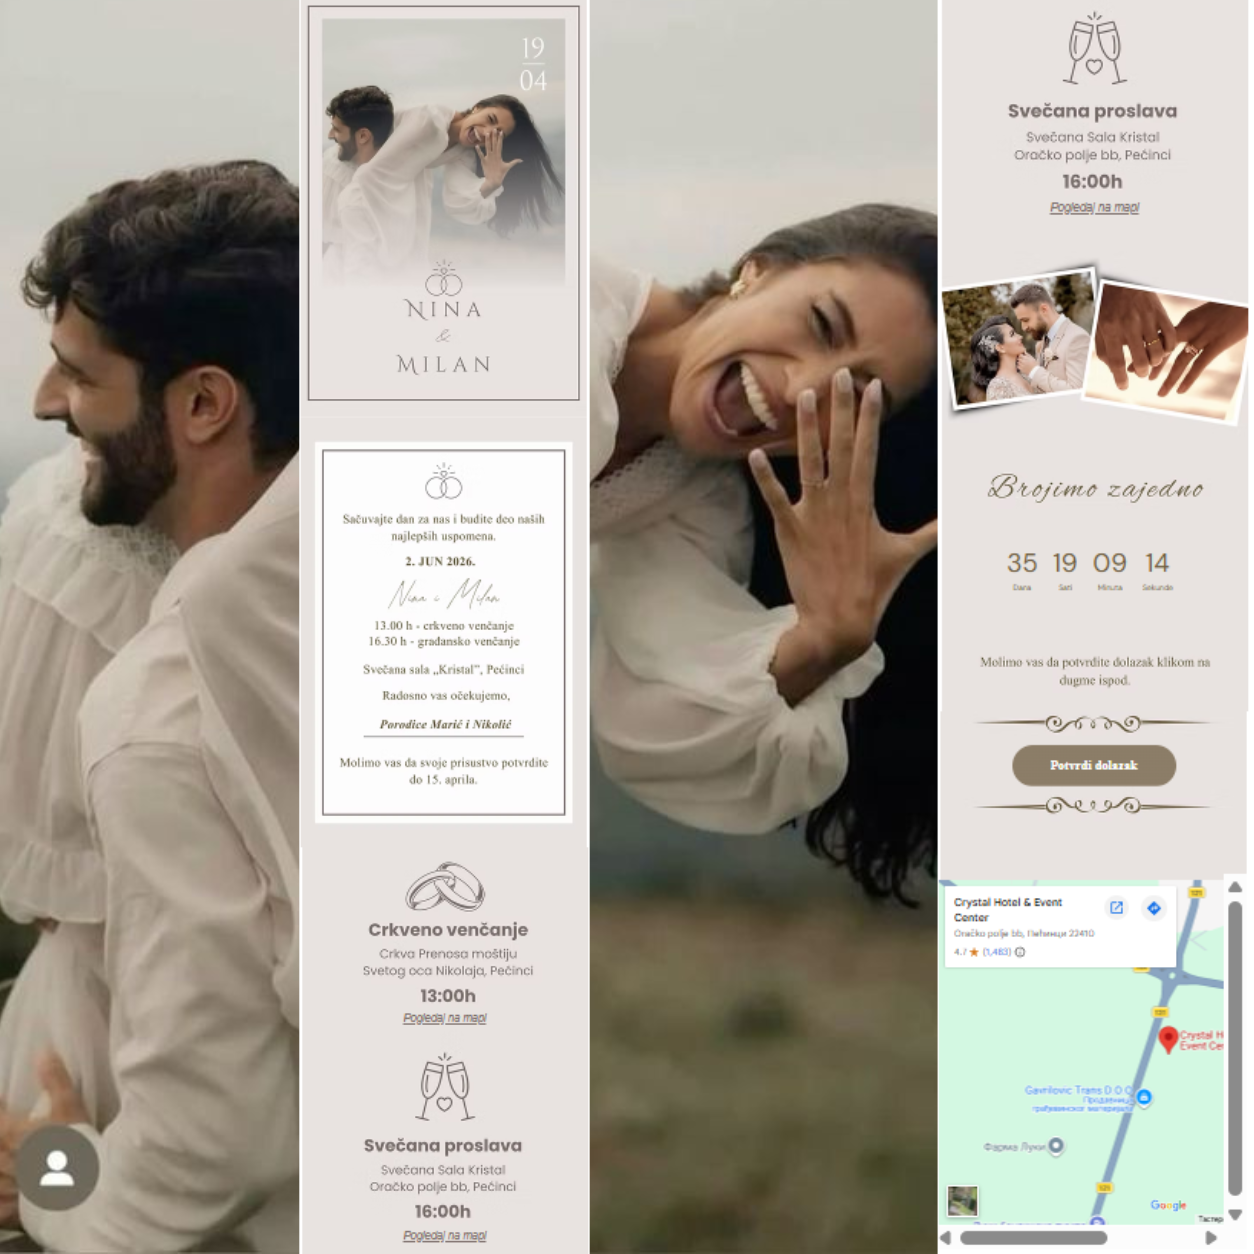
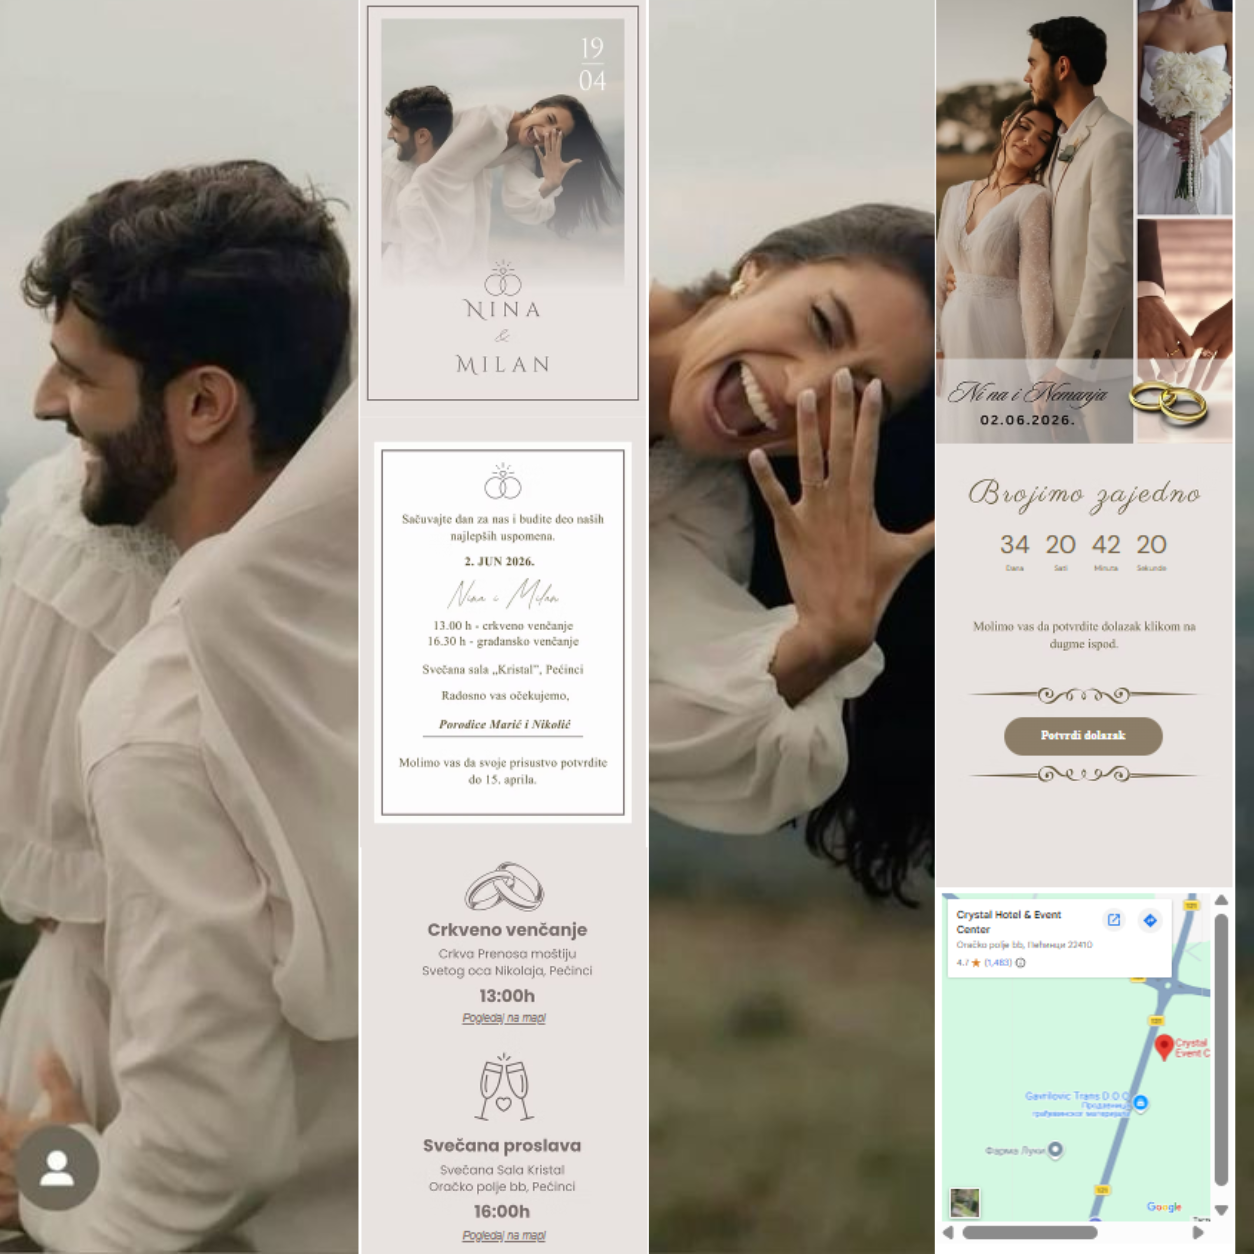
Added photo preview for all models

Changed region(s): [[0.2177, 0.0, 0.5287, 1.0], [0.7464, 0.0, 1.0, 1.0], [0.3732, 0.2799, 0.4043, 0.311]]

diff --git a/modeli.html b/modeli.html
@@ -93,35 +93,7 @@
         </div>
       </div>
       <div class="model">
-        <img src="./images/Andrea.png" alt="" />
-        <div class="model-content">
-          <h3>Rose Symphony</h3>
-          <a href="http://proslave.net/primer1" class="model-btn"
-            >Pogledaj primer</a
-          >
-        </div>
-      </div>
-
-      <div class="model">
-        <img src="./images/Nina.png" alt="" />
-        <div class="model-content">
-          <h3>Petals Of Joy</h3>
-          <a href="http://proslave.net/primer1" class="model-btn"
-            >Pogledaj primer</a
-          >
-        </div>
-      </div>
-      <div class="model">
-        <img src="./images/Slavka.png" alt="" />
-        <div class="model-content">
-          <h3>Forever Bloom</h3>
-          <a href="http://proslave.net/primer1" class="model-btn"
-            >Pogledaj primer</a
-          >
-        </div>
-      </div>
-      <div class="model">
-        <img src="./images/Darko.png" alt="" />
+        <img src="./images/primer 1.png" alt="" />
         <div class="model-content">
           <h3>Eternal Shine</h3>
           <a href="http://proslave.net/primer1" class="model-btn"
@@ -130,29 +102,48 @@
         </div>
       </div>
       <div class="model">
-        <img src="./images/Milica.png" alt="" />
+        <img src="./images/Primer 10.png" alt="" />
         <div class="model-content">
-          <h3>Whispers Of Love</h3>
-          <a href="http://proslave.net/primer1" class="model-btn"
+          <h3>Rose Symphony</h3>
+          <a href="http://proslave.net/primer10" class="model-btn"
             >Pogledaj primer</a
           >
         </div>
       </div>
 
       <div class="model">
-        <img src="./images/Nina.png" alt="" />
+        <img src="./images/Primer 6.png" alt="" />
         <div class="model-content">
-          <h3>Timeless</h3>
-          <a href="http://proslave.net/primer1" class="model-btn"
+          <h3>Petals Of Joy</h3>
+          <a href="http://proslave.net/primer6" class="model-btn"
             >Pogledaj primer</a
           >
         </div>
       </div>
       <div class="model">
-        <img src="./images/Andrea.png" alt="" />
+        <img src="./images/primer 4.png" alt="" />
+        <div class="model-content">
+          <h3>Forever Bloom</h3>
+          <a href="http://proslave.net/primer4" class="model-btn"
+            >Pogledaj primer</a
+          >
+        </div>
+      </div>
+
+      <div class="model">
+        <img src="./images/Primer 3.png" alt="" />
         <div class="model-content">
           <h3>Emerald Promise</h3>
-          <a href="http://proslave.net/primer1" class="model-btn"
+          <a href="http://proslave.net/primer3" class="model-btn"
+            >Pogledaj primer</a
+          >
+        </div>
+      </div>
+      <div class="model">
+        <img src="./images/Primer 7.png" alt="" />
+        <div class="model-content">
+          <h3>Timeless Classic</h3>
+          <a href="http://proslave.net/primer7" class="model-btn"
             >Pogledaj primer</a
           >
         </div>
